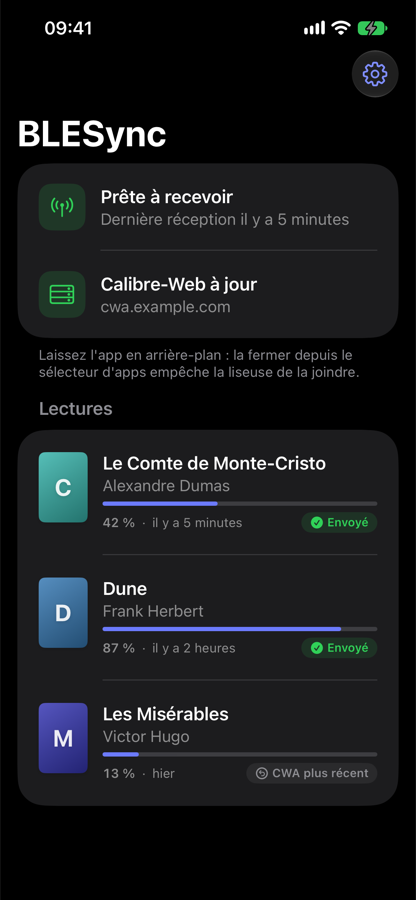
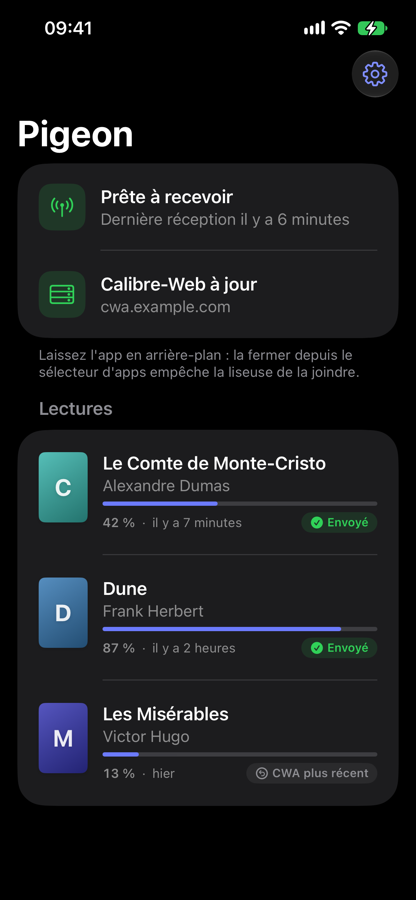
docs: present the project as Pigeon in the README
The README still opened on "calibre-sync" and its screenshots showed the
old BLESync title, so the page did not match the app people install.
It now leads with the logo and the Pigeon name, and the screenshots are
retaken from the renamed app with the same demo data.

Changed region(s): [[0.0625, 0.1244, 0.4062, 0.1867], [0.4688, 0.56, 0.5625, 0.5911], [0.7188, 0.2178, 0.75, 0.2489]]

diff --git a/README.md b/README.md
@@ -1,4 +1,6 @@
-# calibre-sync
+<p align="center"><img src="docs/logo.svg" width="160" alt="Pigeon logo: a teal pigeon on a bookmark"></p>
+
+# Pigeon
 
 Syncs KOReader reading progress from a PocketBook to [Calibre-Web Automated](https://github.com/crocodilestick/Calibre-Web-Automated) (CWA) **without Wi-Fi on the e-reader**: the progress goes over Bluetooth Low Energy to an iPhone app, which pushes it to CWA whenever it has Internet.
 
